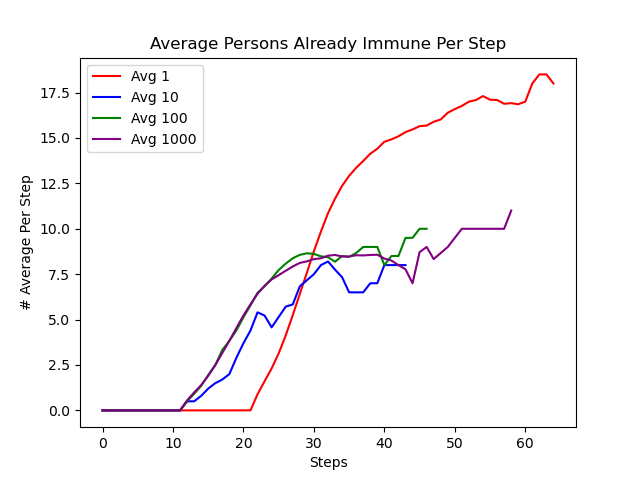
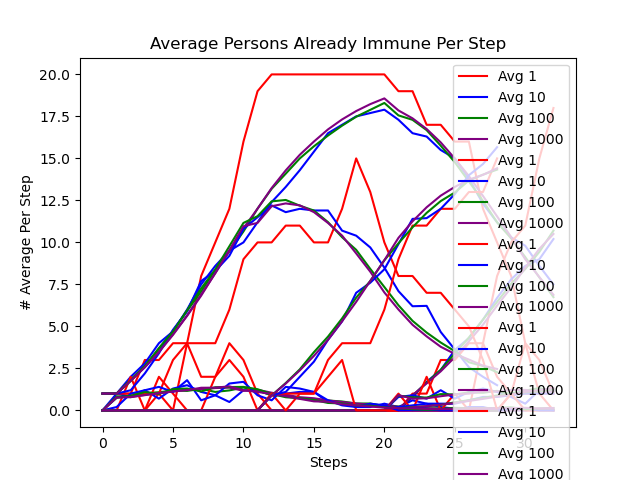
Reset Df related variables after each sim

diff --git a/main.py b/main.py
@@ -331,6 +331,7 @@ partAAlreadyInfected = pd.DataFrame()
 #----------------------PART A-----------------------
 
 #Simulation 1 Iteration
+resetDfs()
 for i in range(1):
     runSim(1,totalAvgNewInfected,totalAvgAlreadyInfected)
 
@@ -340,6 +341,7 @@ partAGotInfected["Avg 1"] = tempDF2.mean(axis = 0)
 partAAlreadyInfected["Avg 1"] = tempDF.mean(axis = 0)
 
 #Simulation 10 Iterations
+resetDfs()
 totalAvgAlreadyInfected =[] 
 totalAvgNewInfected =[] 
 for i in range(10):
@@ -352,6 +354,7 @@ partAAlreadyInfected["Avg 10"] = tempDF.mean(axis = 0)
 
 
 #Simulation 100 Iterations
+resetDfs()
 totalAvgAlreadyInfected =[] 
 totalAvgNewInfected =[] 
 for i in range(100):
@@ -363,6 +366,8 @@ partAGotInfected["Avg 100"] = tempDF2.mean(axis = 0)
 partAAlreadyInfected["Avg 100"] = tempDF.mean(axis = 0)
 
 #Simulation 1000 Iterations
+resetDfs()
+
 totalAvgAlreadyInfected =[] 
 totalAvgNewInfected =[] 
 for i in range(1000):
@@ -380,6 +385,7 @@ print(partAAlreadyInfected)
 
 
 #--------------------------PART B----------------------------
+resetDfs()
 print("Part B")
 print()
 
@@ -547,6 +553,7 @@ plt.savefig('partBAvgDeadStep.png', transparent=True)
 
 
 #--------------------------PART C ----------------------------
+resetDfs()
 
 print("Part C")
 print()
